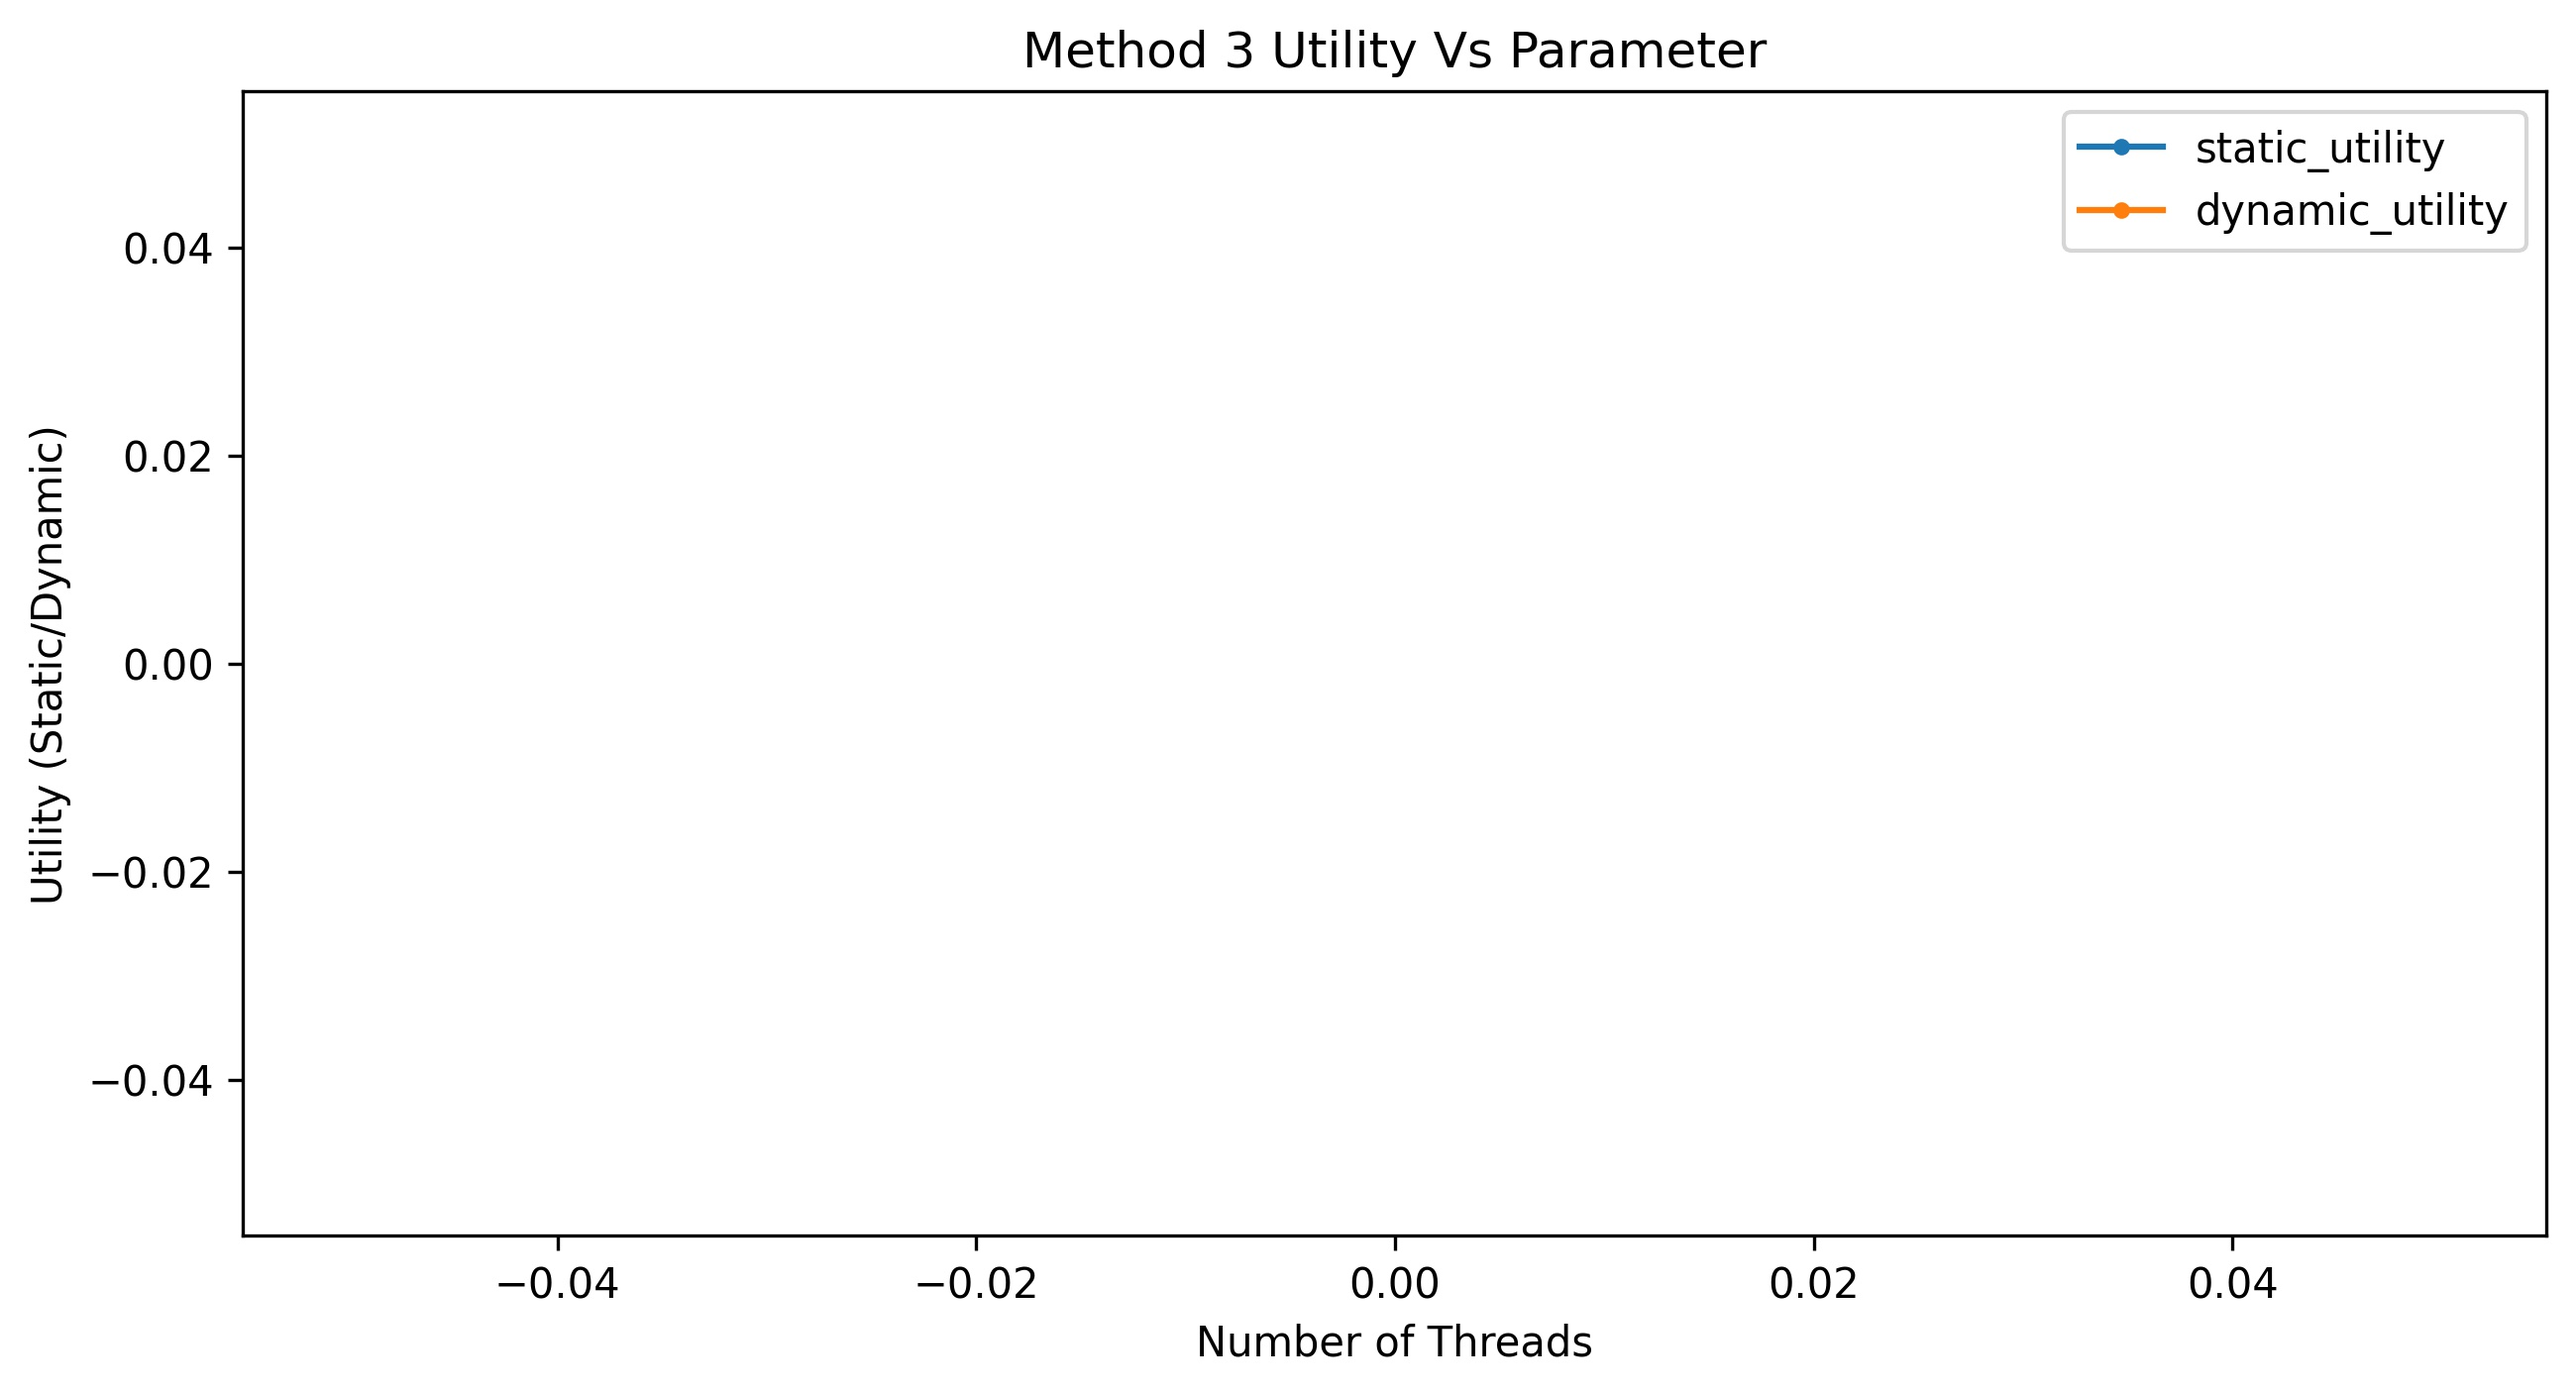
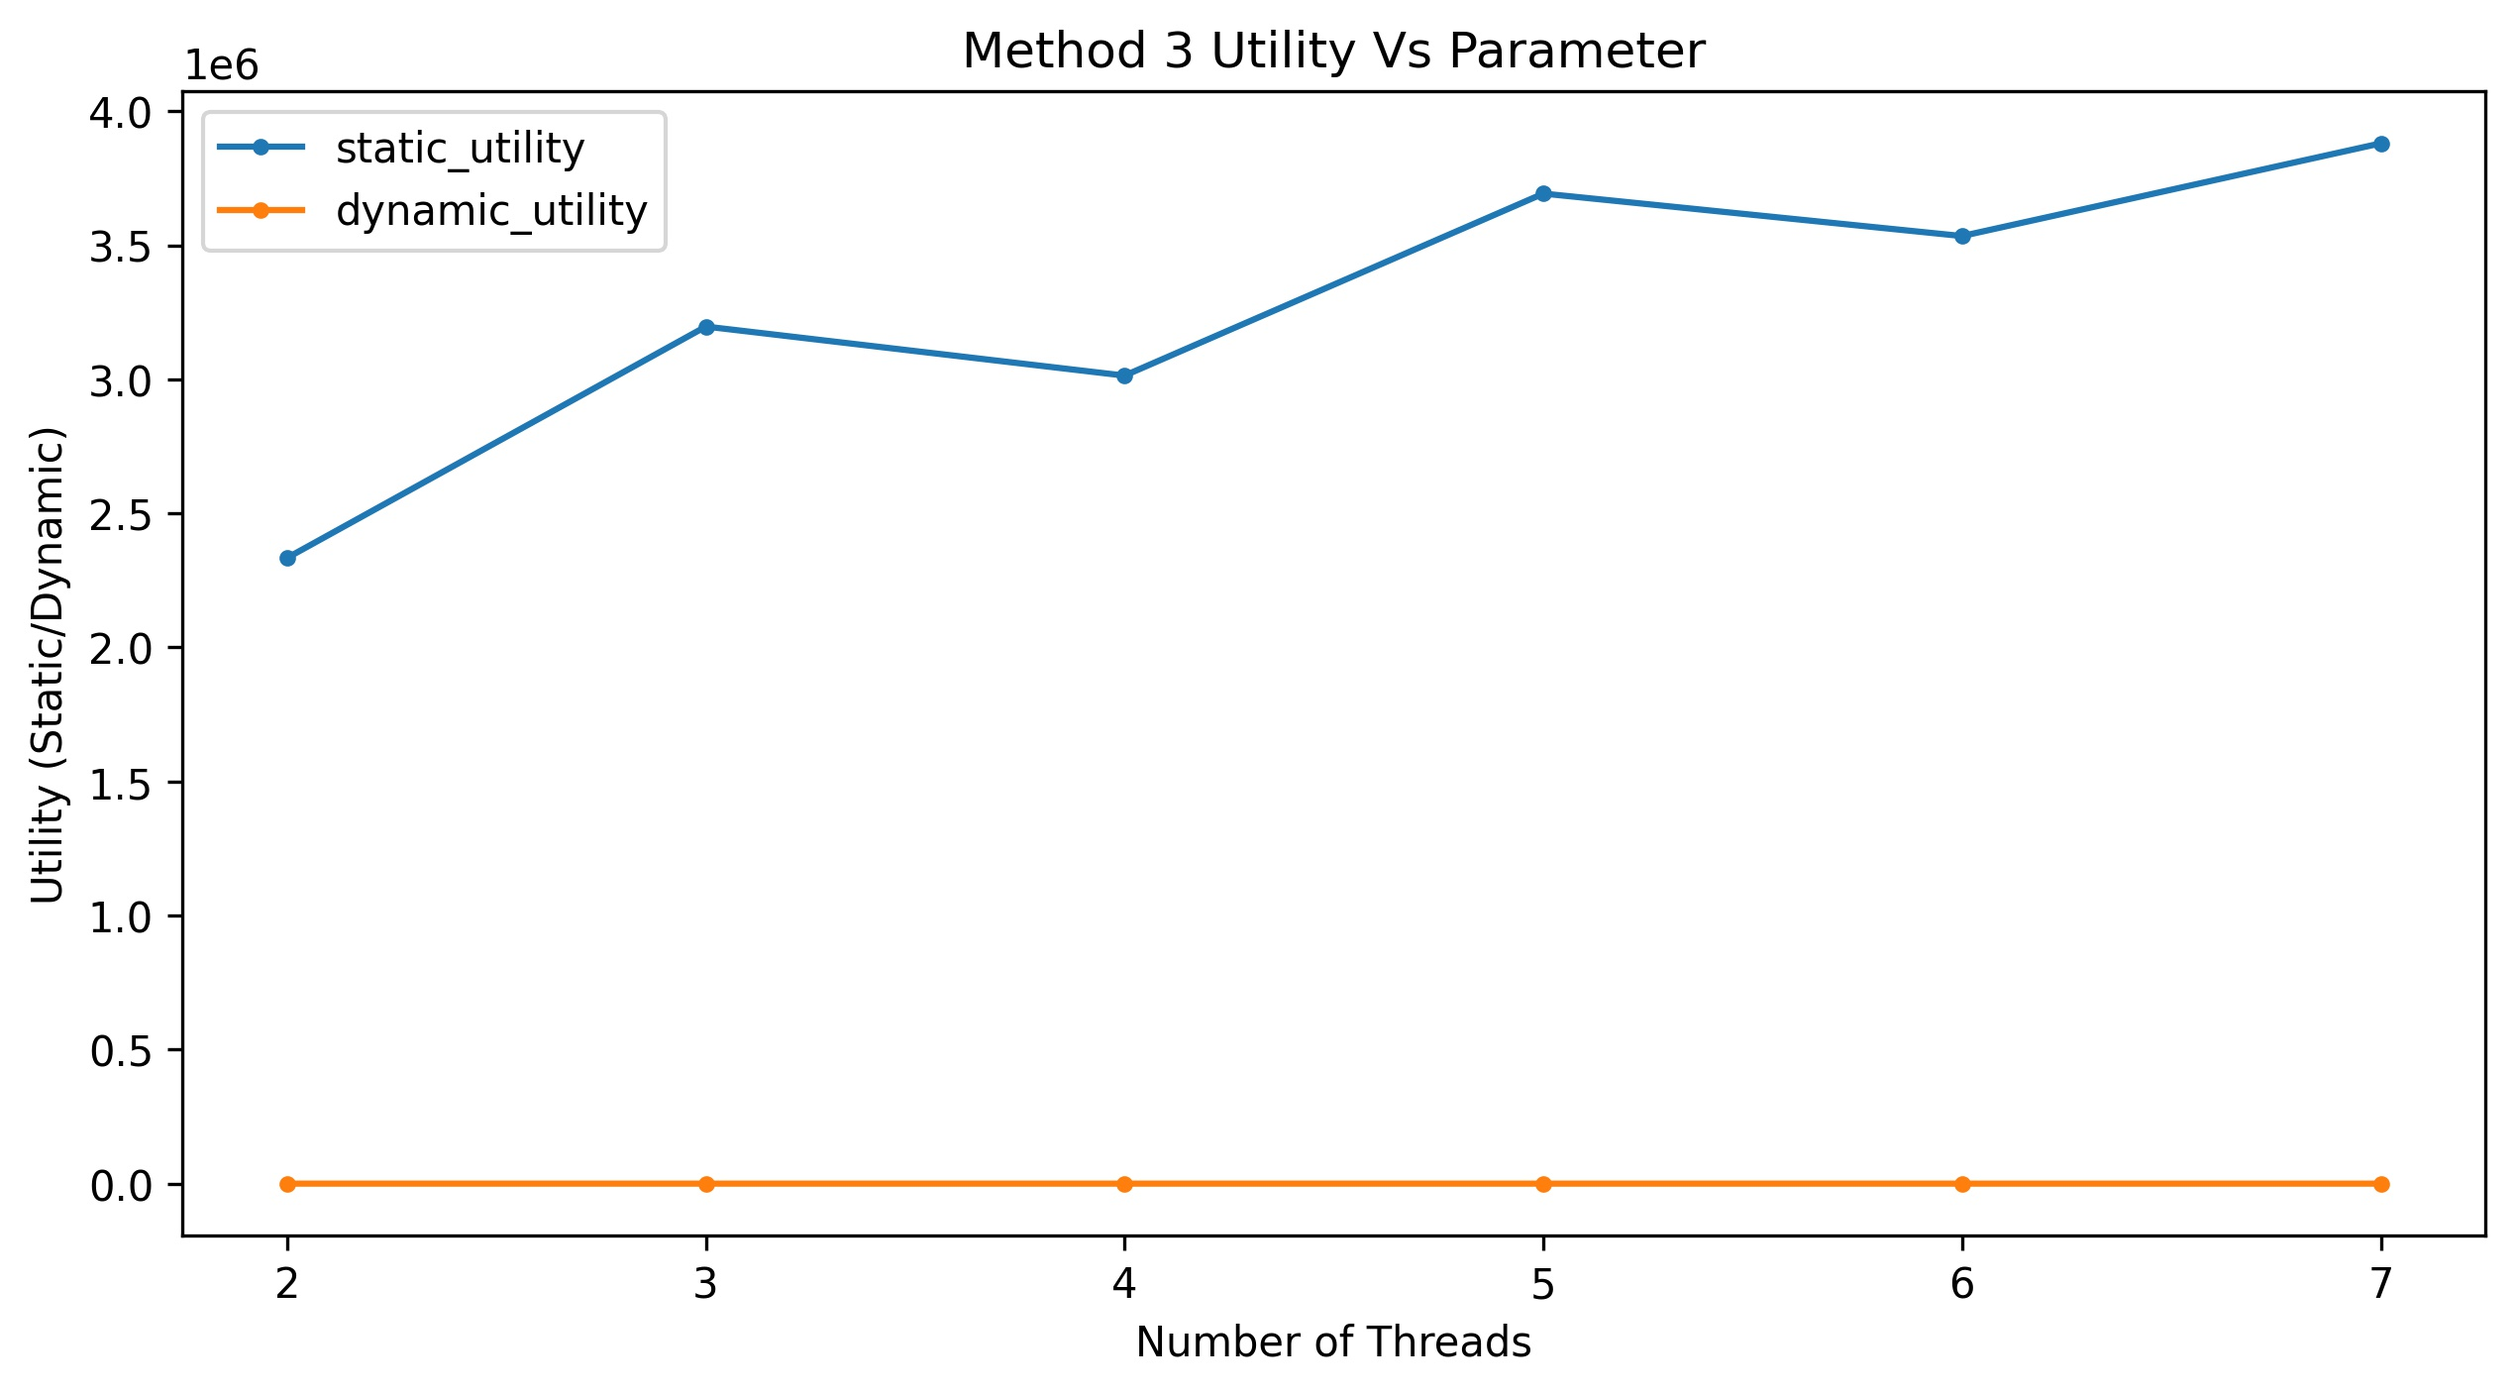
Memory and CPU usage analysis

diff --git a/analysis/model_result/memory_cpu.py b/analysis/model_result/memory_cpu.py
@@ -1,0 +1,41 @@
+import pandas as pd
+import matplotlib.pyplot as plt
+import numpy as np
+
+# +
+#RESULTS_DIR = './results/'
+#out_files = open(RESULTS_DIR+'plotted_files.txt', 'r')
+method_3_cpu = pd.read_csv("method_3_CPU_usage.txt",delimiter = ' ')
+method_3_mem = pd.read_csv("method_3_memory.txt", delimiter =' ')
+method_4_cpu = pd.read_csv("method_4_CPU_usage.txt",delimiter = ' ')
+method_4_mem = pd.read_csv("method_4_memory.txt", delimiter = ' ')
+lg1 = method_3_cpu[['threads','percentage']].plot(title = 'CPU usage for method 3', style = ['.-'], color = ['orange'], kind = "line", x= 'threads', figsize= (10,5) ,legend = True )
+lg1.set_xlabel ("Number of threads")
+lg1.set_ylabel ("CPU used (%)")
+fig1 = lg1.get_figure()
+fig1.savefig("method_3_CPU_usage.jpg", facecolor =fig1.get_facecolor(), transparent =True, dpi=300,bbox_inches='tight')
+plt.close()
+
+lg2 = method_3_mem[['threads','memory']].plot(title = 'Memory usage for method 3', style = ['.-'], color = ['orange'], kind = "line", x= 'threads', figsize= (10,5) ,legend = True )
+lg2.set_xlabel ("Number of threads")
+lg2.set_ylabel ("Memory used (M)")
+fig2 = lg2.get_figure()
+fig2.savefig("method_3_memory.jpg", facecolor =fig2.get_facecolor(), transparent =True, dpi=300,bbox_inches='tight')
+plt.close()
+
+lg3 = method_4_cpu[['threads','percentage']].plot(title = 'CPU usage for method 4', style = ['.-'], color = ['orange'], kind = "line", x= 'threads', figsize= (10,5) ,legend = True )
+lg3.set_xlabel ("Number of threads")
+lg3.set_ylabel ("CPU used (%)")
+fig3 = lg3.get_figure()
+fig3.savefig("method_4_CPU_usage.jpg", facecolor =fig1.get_facecolor(), transparent =True, dpi=300,bbox_inches='tight')
+plt.close()
+
+lg4 = method_4_mem[['threads','memory']].plot(title = 'Memory usage for method 4', style = ['.-'], color = ['orange'], kind = "line", x= 'threads', figsize= (10,5) ,legend = True )
+lg4.set_xlabel ("Number of threads")
+lg4.set_ylabel ("Memory used (M)")
+fig4 = lg4.get_figure()
+fig4.savefig("method_4_memory.jpg", facecolor =fig2.get_facecolor(), transparent =True, dpi=300,bbox_inches='tight')
+plt.close()
+
+
+

diff --git a/analysis/plotter.py b/analysis/plotter.py
@@ -78,6 +78,7 @@ for i in range(1,6):
 
 df
 for i in range(1, 6):
+    df1 = df[(df['method'] == i)]
     if (len(df1)>0):
         df1 = df1.sort_values('parameter'+str(i), ascending = True)
         line_graph = df1[['static_utility', 'dynamic_utility', 'parameter' + str(i)]].plot(kind = "line", x = 'parameter'+str(i),style=['.-','.-'],figsize=(10,5), legend = True, title = "Method "+str(i)+" Utility Vs Parameter")
@@ -95,11 +96,8 @@ for i in range(1, 6):
         fig.savefig(RESULTS_DIR+'method'+str(i)+'_utility_parameter'+'.jpg', facecolor=fig.get_facecolor(), transparent=True, dpi=300,bbox_inches='tight')
         plt.close()
 for i in range(1, 6):
-    if i!=5:
-        df1 = df[(df['method']==i)]
-    else:
-        df1 = df[(df['method'] == i) | (df['method']==0)]
-    if ((i<5 and len(df1)>0) or i==5 and len(df1)>1):
+    df1 = df[(df['method'] == i) | (df['method']==0)]
+    if (len(df1)>1):
         df1 = df1.sort_values('parameter'+str(i), ascending = True)
         line_graph = df1[['runtime', 'parameter' + str(i)]].plot(kind = "line",style=['.-','.-'] ,x = 'parameter'+str(i),figsize=(10,5), legend = True, title = "Method "+str(i)+" Runtime Vs Parameter")
         if (i==1):

diff --git a/analysis/README.md b/analysis/README.md
@@ -5,7 +5,7 @@ An analysis of the results along with the plots can be read in [report.pdf](repo
 ### Contents
 
 - results/ : The results obtained on running the program are saved in the results directory.
-- model_result/ : This directory demonstrates the model results used to analyse the runtime of the code.
+- model_result/ : This directory demonstrates the model results used to analyse the runtime/utility of the code. 
 
 ### Plotting
 
@@ -38,3 +38,12 @@ The various output files produced in results/ are :
 - methodx_utility_parameter.jpg: Plot for utility vs parameter for method number x.
 - methodx_utility_runtime.jpg: Plot for utility vs runtime for method number x.
 - plotted_files.txt : This contains the list of the output files of the form method_0.txt and method_x_function_y.txt. These are the final output files which are used for plotting and analysis.
+
+The various output files present in model_result are :
+
+- All the types of output files enlisted above run on various parameters for all the methods
+- method_x_CPU_usage.txt : Here, x can be 3 or 4. This contains the values of CPU usage for various values of threads run on methods 3 and 4.
+- method_x_memory.txt : Here, x can be 3 or 4. This contains the values of memory usage for various values of threads run on methods 3 and 4.
+- method_x_CPU_usage.jpg : Here, x can be 3 or 4. This contains the plots of CPU usage vs number of threads run on methods 3 and 4
+- method_x_memory.jpg : Here, x can be 3 or 4. This contains the plots of memory usage for number of threads run on methods 3 and 4
+- memory_cpu.py : This python file is used for plotting the above mentioned graphs.
